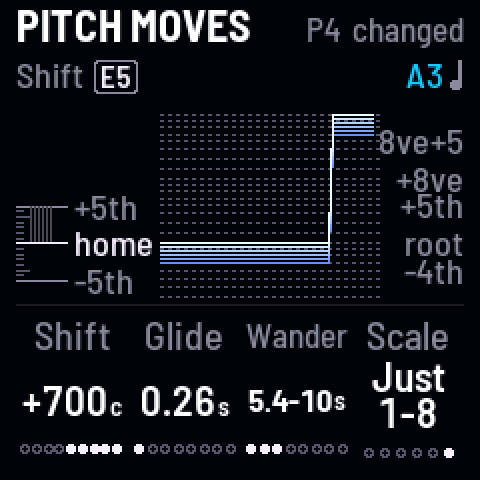
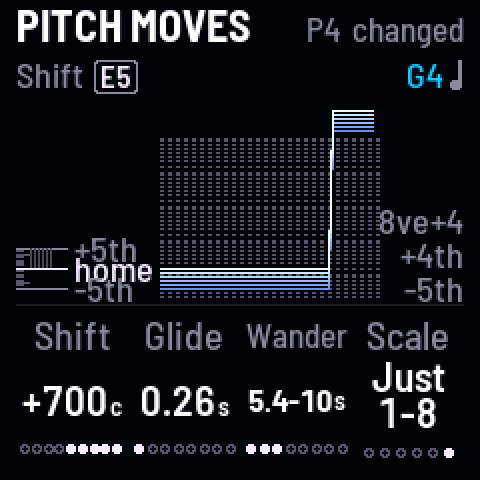
The Swell rhythm recipe back (its MIDI line no longer reads as a need); the stepped figure brighter (drone II to a saw, its filter open, drone I back: +10 dB over 1 kHz, +22 dB over 2 kHz)

Changed region(s): [[0.0312, 0.2188, 0.9688, 0.625], [0.8438, 0.125, 0.9375, 0.1875]]

diff --git a/docs/manual/recipes/sounds.md b/docs/manual/recipes/sounds.md
@@ -178,10 +178,12 @@ drags and tears the pitch, and the echoes with it. It's clearest on a steady sou
 LFO II's **OR** shape adds two square waves, one five times as fast as the other: on a drone's pitch it steps round
 four notes, a figure that repeats. Wander then moves the whole figure to a new note now and then.
 
-1. Press [[LFO]] for **LFO sends**, and tap [[OCT+]], LFO II's wave, until the screen says **OR 5**.
-2. Turn KNOB 3, drone II's pitch send, up: 40 is about ±4 semitones.
-3. Turn SELECT, the LFO's rate, up for a quicker figure.
-4. Press [[SEQ]] twice for **Pitch moves**, and turn KNOB 3, Wander, up: every so often the figure starts on another
+1. Make drone II bright, so the figure stands out: press [[EDIT]] for **Osc** and turn KNOB 3, its wave, to a
+   **saw**; then on **Drones** ([[HOME]]) turn KNOB 4, its cutoff, up, and KNOB 1, drone I's level, a little down.
+2. Press [[LFO]] for **LFO sends**, and tap [[OCT+]], LFO II's wave, until the screen says **OR 5**.
+3. Turn KNOB 3, drone II's pitch send, up: 40 is about ±4 semitones.
+4. Turn SELECT, the LFO's rate, up for a quicker figure.
+5. Press [[SEQ]] twice for **Pitch moves**, and turn KNOB 3, Wander, up: every so often the figure starts on another
    note.
 
 > **Good to know.** LFO I's OR ([[OCT−]]) is three times as fast: another figure. **AND** (AND 3 on LFO I, AND 5 on
@@ -193,9 +195,38 @@ four notes, a figure that repeats. Wander then moves the whole figure to a new n
 **Listen** (`figure`)
 
 - 0:00 P4 Dreamhouse as it starts: a low A and its seventh harmonic
-- 0:02 drone II's pitch send up: the high voice steps round a figure of four notes
-- 0:09 the LFO's rate up: the figure quickens
-- 0:17 Wander up: every so often the whole figure moves to a new note
+- 0:01 drone II brighter and forward: its wave to a saw, its filter opened
+- 0:06 drone II's pitch send up: the high voice steps round a figure of four notes
+- 0:13 the LFO's rate up: the figure quickens
+- 0:21 Wander up: every so often the whole figure moves to a new note
+
+### A filter rhythm in time with the Swell {#swell}
+
+*A square LFO on both cutoffs, locked to the Swell's breath*
+
+The Swell makes both drones breathe; lock the LFO to it and a square wave on the filters jumps on the same beat, the
+two filters in turn.
+
+1. Press [[ARP]] for the **Swell** page (tap it again if the Swell is off), and turn KNOB 1 for about a breath a
+   second.
+2. Press [[LFO]] for **LFO sends**. Tap [[OCT−]] until LFO I is **Square**, and tap key 8, [[A#4]], until LFO I moves
+   drone II's cutoff too.
+3. Turn KNOB 2 and KNOB 4, the cutoff sends, one up and one down: the filters jump in turn. Turn SELECT to about the
+   Swell's speed.
+4. Hold black key 5, [[D#4]], half a second: the LFO restarts on each of the Swell's breaths ("on Swell").
+
+> **Good to know.** The Swell's speed sets the rhythm: the locked LFO restarts on each of its breaths. Hold [[D#4]]
+> again to free the LFO. (With a MIDI clock, the Swell and the locked LFO follow its beat too.)
+
+![LFO sends, LFO I Square on both cutoffs, on Swell](../media/swell-0.png "Square on both cutoffs, on Swell")
+![Swell, rate 1.2 s](../media/swell-1.png "the Swell at 1.2 s")
+
+**Listen** (`swell`)
+
+- 0:00 P8 Sibyl as it starts
+- 0:01 the Swell quicker: the drones breathe about once a second
+- 0:07 LFO I to Square on both cutoffs: the filters jump in turn
+- 0:16 the LFO locked to the Swell: each jump lands on its breath
 
 ### LFO chasing itself {#chase}
 
